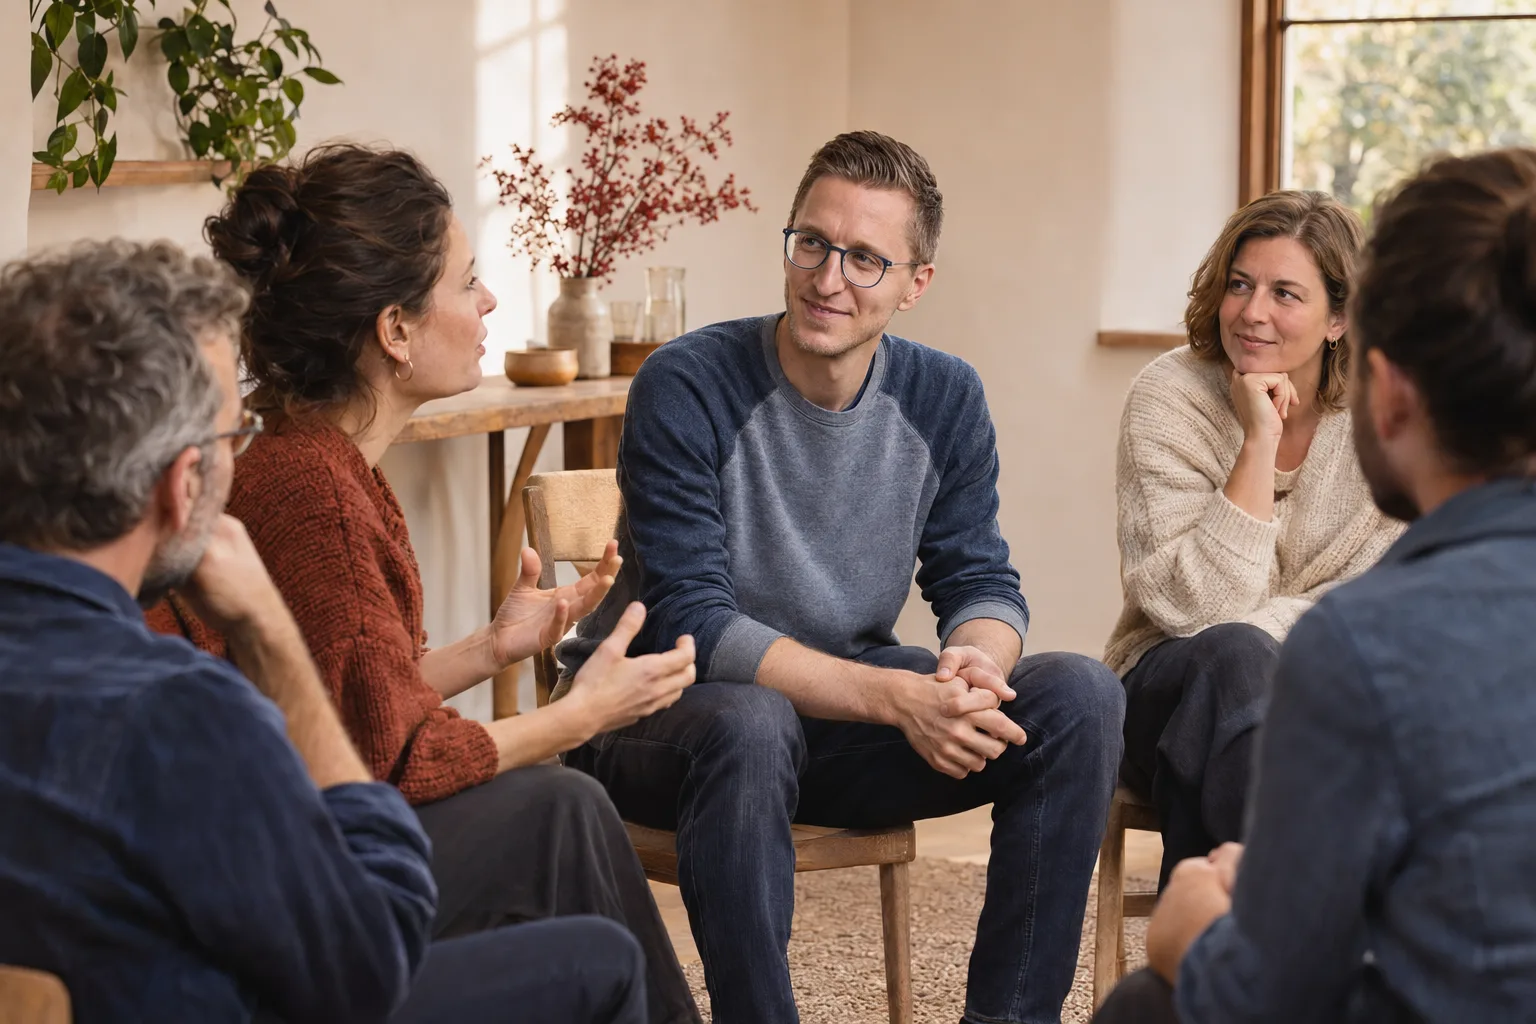
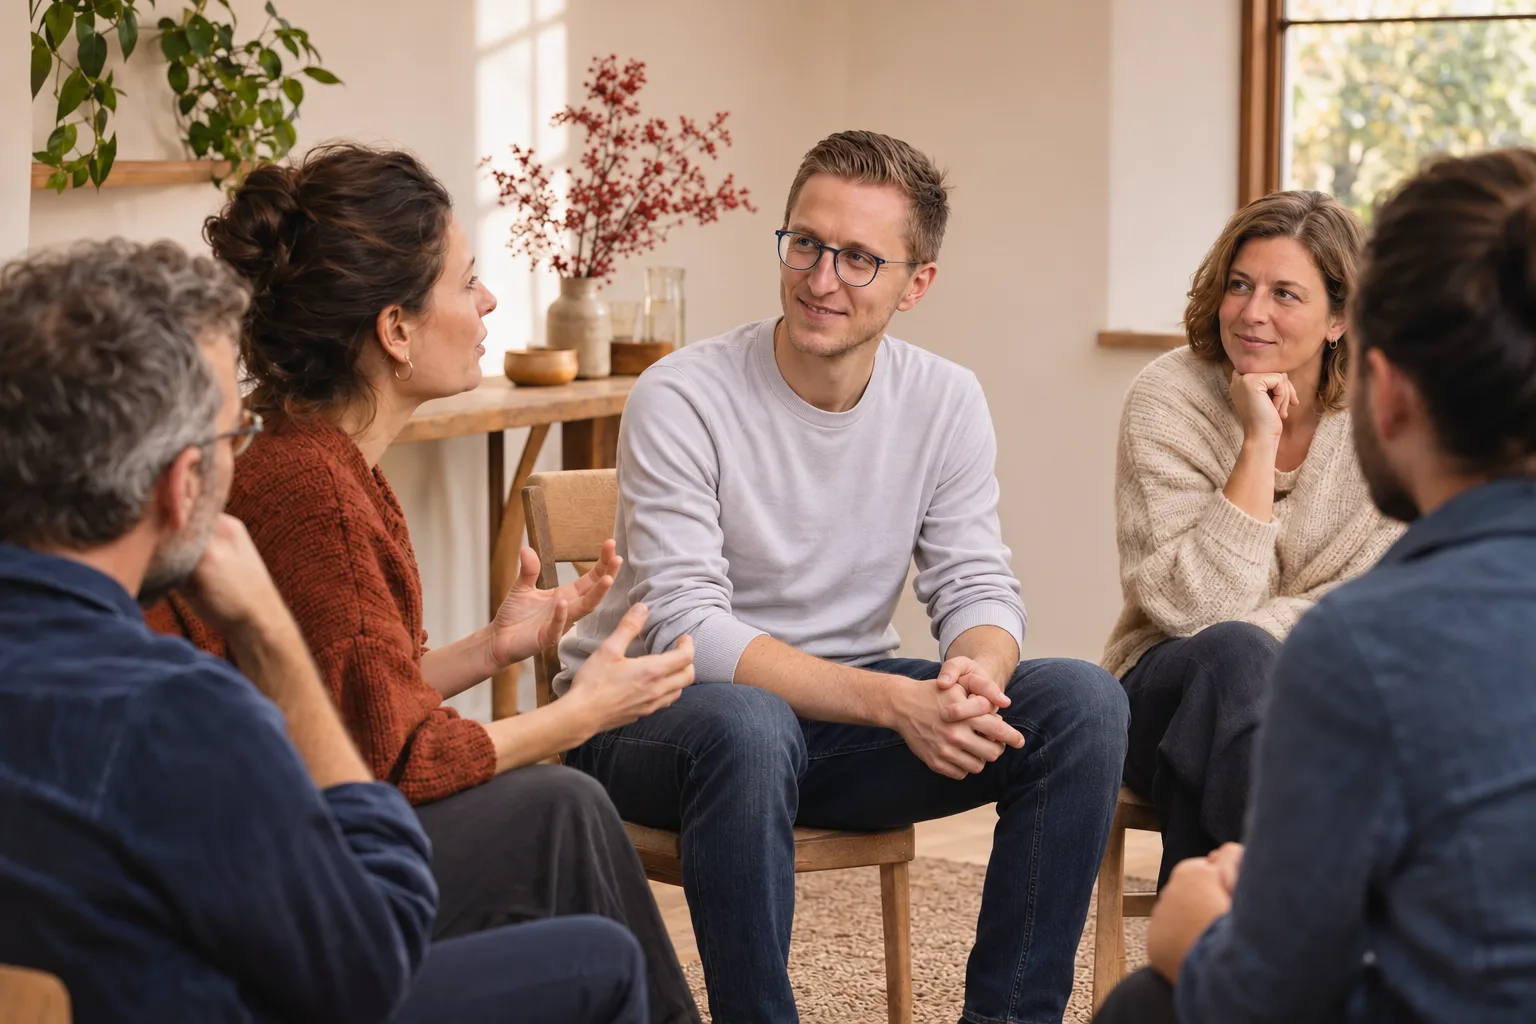
fix: improve facilitator likeness and sweater in hero image

diff --git a/de/teams-offsites/index.html b/de/teams-offsites/index.html
@@ -30,7 +30,7 @@
   <link rel="icon" type="image/svg+xml" href="/brand/max-sutter/web-icons/favicon.svg" sizes="any">
   <link rel="apple-touch-icon" href="/brand/max-sutter/web-icons/apple-touch-icon.png" sizes="180x180">
   <link rel="preload" href="../../assets/fonts/manrope.woff2" as="font" type="font/woff2" crossorigin>
-  <link rel="preload" href="../../assets/images/team-facilitation-illustration.webp" as="image" type="image/webp" fetchpriority="high">
+  <link rel="preload" href="../../assets/images/team-facilitation-illustration.webp?v=20261107-2" as="image" type="image/webp" fetchpriority="high">
   <script>document.documentElement.classList.add('js');</script>
   <link rel="stylesheet" href="../../assets/site.css?v=20261107-1">
   <script type="application/ld+json">
@@ -116,7 +116,7 @@
   <main id="main" tabindex="-1">
     <section class="team-hero section-space" id="hero" aria-labelledby="hero-title">
       <figure class="team-hero-media">
-        <img src="../../assets/images/team-facilitation-illustration.webp" width="1536" height="1024" alt="KI-generierte Illustration: Max Sutter im Gespräch mit einem Führungsteam" fetchpriority="high" decoding="async">
+        <img src="../../assets/images/team-facilitation-illustration.webp?v=20261107-2" width="1536" height="1024" alt="KI-generierte Illustration: Max Sutter im Gespräch mit einem Führungsteam" fetchpriority="high" decoding="async">
         <figcaption>KI-generierte Illustration</figcaption>
       </figure>
       <div class="container">

diff --git a/team-offsites/index.html b/team-offsites/index.html
@@ -30,7 +30,7 @@
   <link rel="icon" type="image/svg+xml" href="/brand/max-sutter/web-icons/favicon.svg" sizes="any">
   <link rel="apple-touch-icon" href="/brand/max-sutter/web-icons/apple-touch-icon.png" sizes="180x180">
   <link rel="preload" href="../assets/fonts/manrope.woff2" as="font" type="font/woff2" crossorigin>
-  <link rel="preload" href="../assets/images/team-facilitation-illustration.webp" as="image" type="image/webp" fetchpriority="high">
+  <link rel="preload" href="../assets/images/team-facilitation-illustration.webp?v=20261107-2" as="image" type="image/webp" fetchpriority="high">
   <script>document.documentElement.classList.add('js');</script>
   <link rel="stylesheet" href="../assets/site.css?v=20261107-1">
   <script type="application/ld+json">
@@ -116,7 +116,7 @@
   <main id="main" tabindex="-1">
     <section class="team-hero section-space" id="hero" aria-labelledby="hero-title">
       <figure class="team-hero-media">
-        <img src="../assets/images/team-facilitation-illustration.webp" width="1536" height="1024" alt="AI-generated illustration of Max Sutter in conversation with a leadership team" fetchpriority="high" decoding="async">
+        <img src="../assets/images/team-facilitation-illustration.webp?v=20261107-2" width="1536" height="1024" alt="AI-generated illustration of Max Sutter in conversation with a leadership team" fetchpriority="high" decoding="async">
         <figcaption>AI-generated illustration</figcaption>
       </figure>
       <div class="container">
